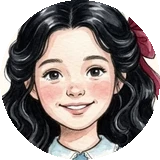
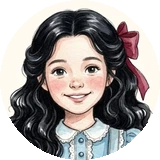
인물 얼굴 아이콘: 얼굴 전체가 들어오게 다시 자르기
Claude-Session: https://claude.ai/code/session_01DqY8gfT4xfJ5wZQGC3UGtV

diff --git a/sw.js b/sw.js
@@ -1,5 +1,5 @@
 /* 빨강 머리 앤 오프라인 지원: 인터넷이 되면 항상 최신 판을 먼저 받고, 인터넷이 없으면 저장해 둔 판으로 실행합니다. */
-const CACHE = "anne-vn-v46";
+const CACHE = "anne-vn-v47";
 const FILES = ["./", "./index.html", "./manifest.webmanifest", "./icon-192.png", "./icon-512.png", "./icon-maskable-512.png", "./apple-touch-icon.png"];
 self.addEventListener("install", e => {
   e.waitUntil(caches.open(CACHE).then(c => c.addAll(FILES.map(f => new Request(f, {cache: "reload"})))).then(() => self.skipWaiting()));

diff --git a/source/tools/avatars.py b/source/tools/avatars.py
@@ -3,7 +3,7 @@ import sys
 from PIL import Image, ImageDraw
 import numpy as np
 SRC={'matthew':'matthew','marilla':'marilla_warm','lynde':'lynde','diana':'diana','barry':'barry','gilbert':'gilbert','allan':'allan'}
-ADJ={}  # k:(dx,dy,scale) 미세 조정
+ADJ={k:(0,-0.1,1.3) for k in SRC}  # k:(dx,dy,scale) 미세 조정 — 얼굴 전체가 들어오게 조금 축소
 if len(sys.argv)>1: ADJ=eval(sys.argv[1])
 sheet=Image.new('RGBA',(7*170,190),(250,245,235,255))
 for i,(k,f) in enumerate(SRC.items()):
